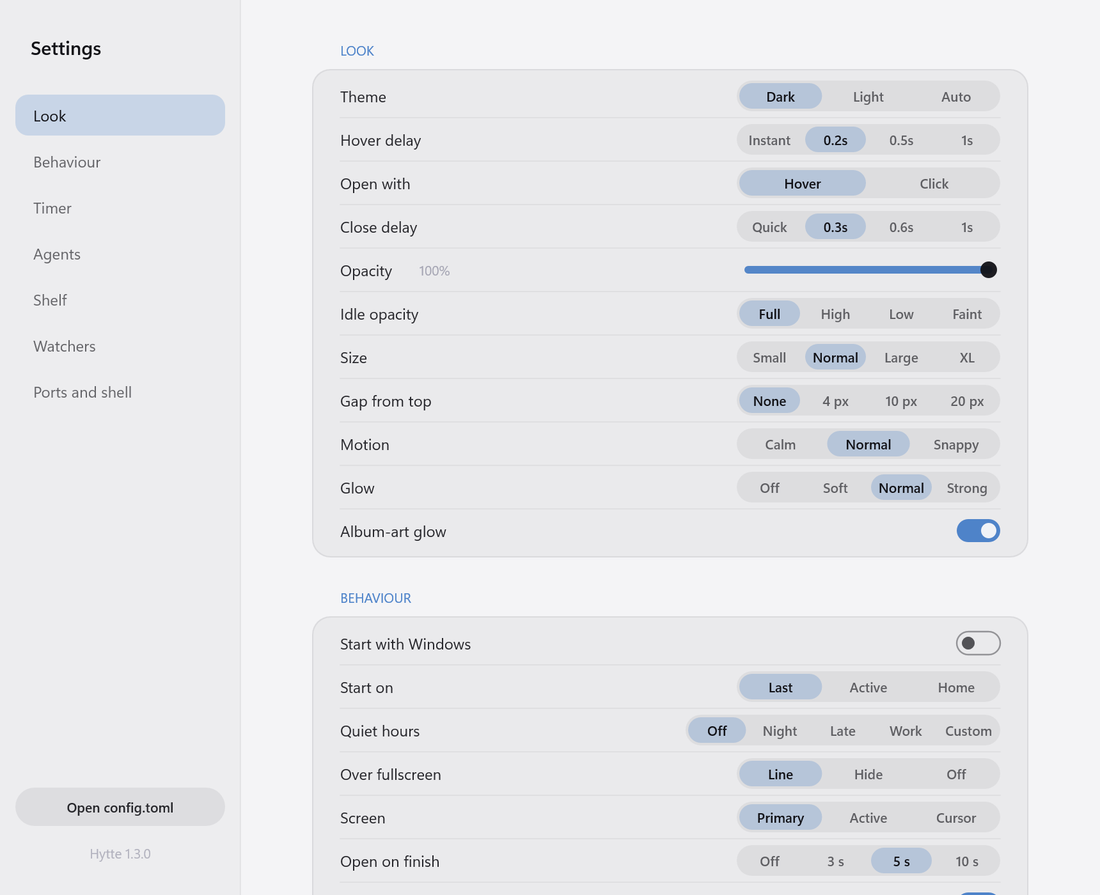
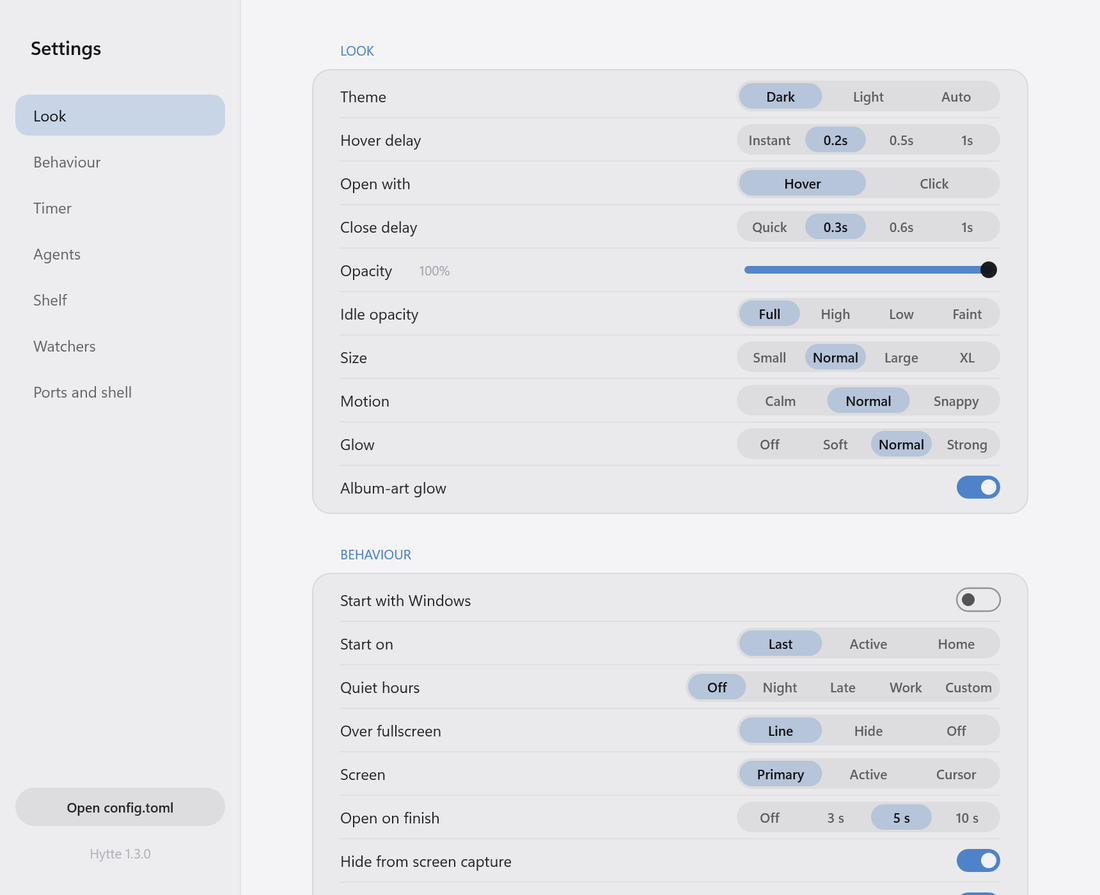
settings: remove Gap from top (top_offset) entirely

diff --git a/crates/hytte/src/render.rs b/crates/hytte/src/render.rs
@@ -30,7 +30,7 @@ use windows_numerics::{Matrix3x2, Vector2};
 
 /// Logical canvas size (the window), pill hangs from the top centre.
 pub const CANVAS_W: f32 = 460.0;
-pub const CANVAS_H: f32 = 360.0;
+pub const CANVAS_H: f32 = 310.0;
 const HOT_ZONE_H: f32 = 40.0;
 
 #[derive(Debug, Clone, PartialEq)]
@@ -223,9 +223,6 @@ pub struct Renderer {
     ca: Cell<f32>,
     /// Settings window: the extra vertical offset hits are registered at (its scroll).
     oy: Cell<f32>,
-    /// `[general] top_offset`: logical px between the top of the window and the pill. The
-    /// strip is part of the window, so pointing at it still reaches the pill.
-    gap: Cell<f32>,
     /// Settings window: animate (`ease`), the frame's time step, and whether a value is
     /// still on its way (another frame is due).
     fx: Cell<bool>,
@@ -544,15 +541,6 @@ pub fn settings_table(c: &Config) -> Vec<Section> {
                             ("XL", 1.4),
                         ],
                         g.pill_scale as f64,
-                    ),
-                    -1,
-                ),
-                (
-                    pick_i(
-                        "Gap from top",
-                        "general.top_offset",
-                        &[("None", 0), ("4 px", 4), ("10 px", 10), ("20 px", 20)],
-                        g.top_offset as i64,
                     ),
                     -1,
                 ),
@@ -916,7 +904,6 @@ impl Renderer {
                 scale: 1.0,
                 ca: Cell::new(1.0),
                 oy: Cell::new(0.0),
-                gap: Cell::new(0.0),
                 fx: Cell::new(false),
                 fx_dt: Cell::new(0.0),
                 fx_busy: Cell::new(false),
@@ -946,11 +933,6 @@ impl Renderer {
     /// A hovered label is scrolling: keep frames coming until the pointer leaves it.
     pub fn wants_frames(&self) -> bool {
         self.scrolling.get()
-    }
-
-    /// The gap above the pill, in logical px (see `gap`).
-    pub fn set_gap(&self, g: f32) {
-        self.gap.set(g);
     }
 
     /// True once the GPU device was lost (driver reset, adapter removed).
@@ -1001,7 +983,7 @@ impl Renderer {
     /// over a fullscreen video must not block the browser tabs around it.
     pub fn plan(&self, pw: f32, ph: f32, armed: bool, room: f32, glow: bool) -> Crop {
         let margin = if glow { 28.0 } else { 4.0 };
-        let (mut w, mut h) = (pw + 2.0 * (margin + room), ph + margin + self.gap.get());
+        let (mut w, mut h) = (pw + 2.0 * (margin + room), ph + margin);
         if armed {
             w = w.max(CANVAS_W);
             h = h.max(HOT_ZONE_H);
@@ -1051,7 +1033,7 @@ impl Renderer {
                     &*self.solid(color([0.0; 3], 0.008)),
                 );
             }
-            self.rt.SetTransform(&mat(self.scale, ox, self.gap.get()));
+            self.rt.SetTransform(&mat(self.scale, ox, 0.0));
             self.scene(fr, pw, ph);
             let ended = self.rt.EndDraw(None, None);
             if let Some(g) = &self.gpu {
@@ -4936,21 +4918,6 @@ mod snap {
         .unwrap();
         SHOT.with(|v| v.borrow_mut().push("settings-custom".to_string()));
         contact_sheet(&dir);
-    }
-
-    /// The gap above the pill is part of the window: taller by that much, so pointing at the
-    /// strip still reaches the pill.
-    #[test]
-    fn the_gap_above_the_pill_is_inside_the_window() {
-        let r = Renderer::offscreen(2.0).unwrap();
-        let plain = r.plan(380.0, 100.0, false, 0.0, true);
-        r.set_gap(20.0);
-        let gapped = r.plan(380.0, 100.0, false, 0.0, true);
-        assert_eq!(gapped.clip.3 - plain.clip.3, 40);
-        assert_eq!(
-            gapped.clip.1, 0,
-            "the window region still starts at the top"
-        );
     }
 
     #[test]

diff --git a/crates/hytte/src/window.rs b/crates/hytte/src/window.rs
@@ -405,17 +405,12 @@ mod win {
             let (sx, sy) = self.mouse?;
             Some((
                 (sx - self.origin.0) as f32 / self.scale,
-                (sy - self.origin.1) as f32 / self.scale - self.gap(),
+                (sy - self.origin.1) as f32 / self.scale,
             ))
         }
 
         fn set_mouse_client(&mut self, lparam: LPARAM) {
             self.mouse = Some((self.origin.0 + lo(lparam), self.origin.1 + hi(lparam)));
-        }
-
-        /// `[general] top_offset` in logical px: the strip above the pill.
-        fn gap(&self) -> f32 {
-            self.cfg.general.top_offset.min(48) as f32
         }
 
         fn pill_contains(&self) -> bool {
@@ -425,12 +420,10 @@ mod win {
             let pw = self.anim.rect.w.pos as f32;
             let ph = (self.anim.rect.h.pos as f32).max(6.0);
             let ox = (self.crop_w - pw) / 2.0;
-            // The strip above the pill counts, so the gap is as easy to hover as the pill.
-            mx >= ox && mx <= ox + pw && my >= -self.gap() && my <= ph
+            mx >= ox && mx <= ox + pw && my >= 0.0 && my <= ph
         }
 
         fn crop(&self) -> Crop {
-            self.rend.set_gap(self.gap());
             self.rend.plan(
                 self.anim.rect.w.pos as f32,
                 self.anim.rect.h.pos as f32,

diff --git a/crates/hytte/src/config.rs b/crates/hytte/src/config.rs
@@ -28,8 +28,6 @@ pub struct General {
     pub pill_scale: f32,
     /// Opacity of the idle pill (nothing to show) until it is pointed at, 0.2..1.0.
     pub idle_opacity: f32,
-    /// Gap between the top of the screen and the pill, in px (0..48).
-    pub top_offset: u32,
     /// "calm", "normal" or "snappy": how fast the pill moves.
     pub animation: String,
     /// The panel the pill opens on: "last" (the one you left), "auto" (what is happening,
@@ -131,7 +129,6 @@ impl Default for General {
             open_on: "hover".into(),
             pill_scale: 1.0,
             idle_opacity: 1.0,
-            top_offset: 0,
             animation: "normal".into(),
             start_panel: "last".into(),
             quiet_hours: String::new(),

diff --git a/docs/11-configuration-and-files.md b/docs/11-configuration-and-files.md
@@ -43,7 +43,7 @@ On the UI thread, `Ui::apply_config` replaces `self.cfg` and refreshes what was 
 | `[general] hotkey` | The old hotkey is unregistered and the new one registered. |
 | `[general] hide_from_capture` | `SetWindowDisplayAffinity` is called again. |
 | `[general] monitor` | `refresh_monitor` moves the pill. |
-| `[general] theme`, `adaptive_glow`, `glow_strength`, `pill_opacity`, `pill_scale`, `idle_opacity`, `top_offset`, `animation`, `open_on`, `hover_delay_ms`, `collapse_delay_ms`, `start_panel`, `quiet_hours`, `task_rows` | Re-read; the next frame uses them. |
+| `[general] theme`, `adaptive_glow`, `glow_strength`, `pill_opacity`, `pill_scale`, `idle_opacity`, `animation`, `open_on`, `hover_delay_ms`, `collapse_delay_ms`, `start_panel`, `quiet_hours`, `task_rows` | Re-read; the next frame uses them. |
 | `[timer] rounds` | The running Focus cycle shows the new number of dots. |
 | `[ports]` | `ports::reconfigure` hands the new settings to the port watcher and wakes it for an immediate rescan. |
 | `[hog]` | `ports::reconfigure_hog` hands them to the same thread, used from the next tick. |
@@ -73,7 +73,6 @@ Hytte only writes `config.toml` in three cases: creating it on first run (`confi
 | `open_on` | `"hover"` | `"hover"` opens when the pointer rests on the pill; `"click"` waits for a click on the closed pill. |
 | `pill_scale` | `1.0` | Size of the pill, `0.7` to `1.6`. |
 | `idle_opacity` | `1.0` | The idle pill (nothing to show) fades to this, `0.2` to `1.0`, until it is pointed at. |
-| `top_offset` | `0` | Gap between the top of the screen and the pill, `0` to `48` px. The strip above the pill belongs to the pill's window, so pointing at it opens the pill like pointing at the pill itself (and it takes clicks that would have gone to what is under it). |
 | `animation` | `"normal"` | `"calm"`, `"normal"` or `"snappy"`: how fast the pill moves. |
 | `start_panel` | `"last"` | The panel it opens on: `"last"` (the one you left), `"auto"` (what is happening, else the quick controls) or `"home"`. |
 | `quiet_hours` | `""` | No sounds (agent alerts, the timer alarm) inside this window, for example `"22:00-07:00"`; it may wrap past midnight. Empty = never. The settings window offers four presets and **Custom**, which writes the key into the file with a note above it and opens it. |

diff --git a/README.md b/README.md
@@ -235,7 +235,7 @@ The everyday settings are in the pill: the **gear** next to the volume bar on Ho
   <img src="docs/img/settings-pane.png" alt="The settings pane inside the pill" width="420">
 </p>
 
-The button at the top right of that pane opens the **settings window**: a bigger, scrolling page with every switch, slider and step, grouped in sections (look, behaviour, timer, shelf, watchers and more). It adds things the pane has no room for: opacity as a slider, how the pill opens (hover or click), its size, idle dimming, the gap from the top, motion speed, which panel it opens on, quiet hours for sounds (presets, or **Custom** to open `config.toml` at the setting with instructions), how long screenshots stay on the shelf and more. Lists, the hotkey and folders stay in `config.toml`.
+The button at the top right of that pane opens the **settings window**: a bigger, scrolling page with every switch, slider and step, grouped in sections (look, behaviour, timer, shelf, watchers and more). It adds things the pane has no room for: opacity as a slider, how the pill opens (hover or click), its size, idle dimming, motion speed, which panel it opens on, quiet hours for sounds (presets, or **Custom** to open `config.toml` at the setting with instructions), how long screenshots stay on the shelf and more. Lists, the hotkey and folders stay in `config.toml`.
 
 <p align="center">
   <img src="docs/img/settings-window.png" alt="The settings window, dark" width="560">
@@ -258,7 +258,6 @@ collapse_delay_ms = 300        # how long the pill stays open after the pointer 
 open_on = "hover"              # "hover" opens at once (after hover_delay_ms), "click" waits for a click
 pill_scale = 1.0               # size of the pill, 0.7 to 1.6
 idle_opacity = 1.0             # the idle pill fades to this (0.2 to 1.0) until you point at it
-top_offset = 0                 # gap between the top of the screen and the pill, in px (0 to 48)
 animation = "normal"           # "calm", "normal" or "snappy"
 start_panel = "last"           # the panel it opens on: "last", "auto" (what is happening) or "home"
 quiet_hours = ""               # no sounds in this window, e.g. "22:00-07:00" (empty = never)
